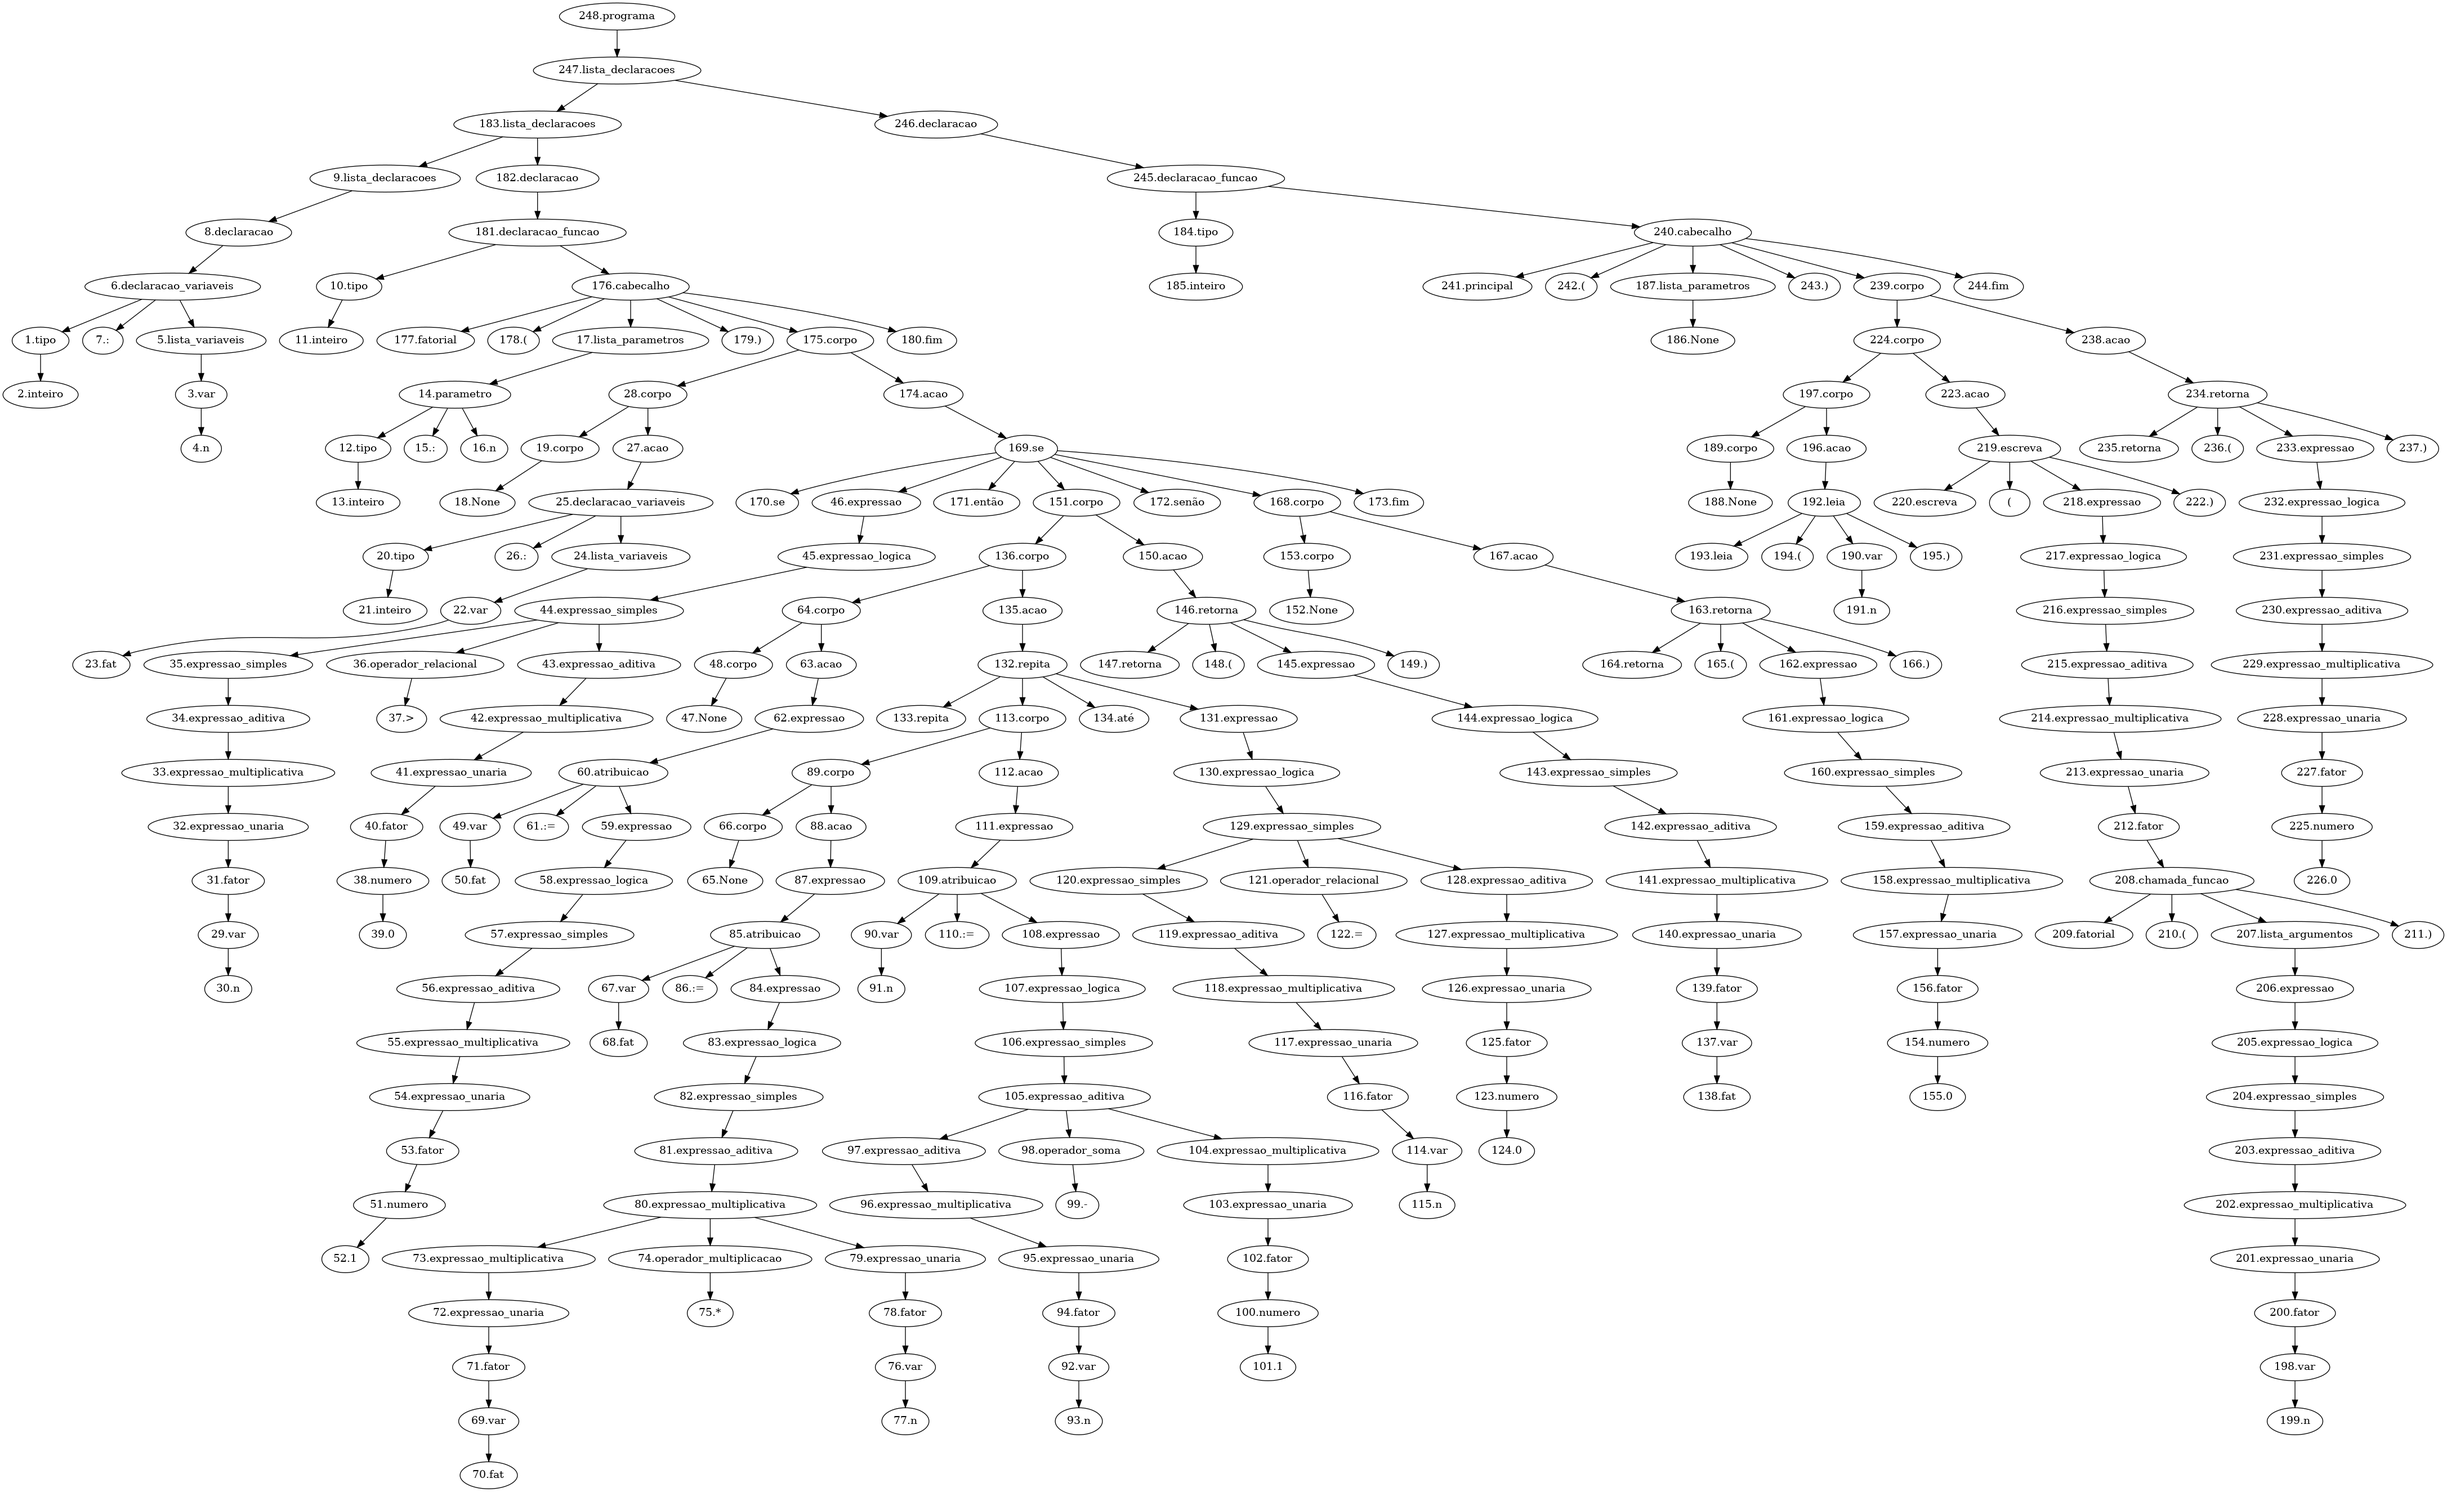
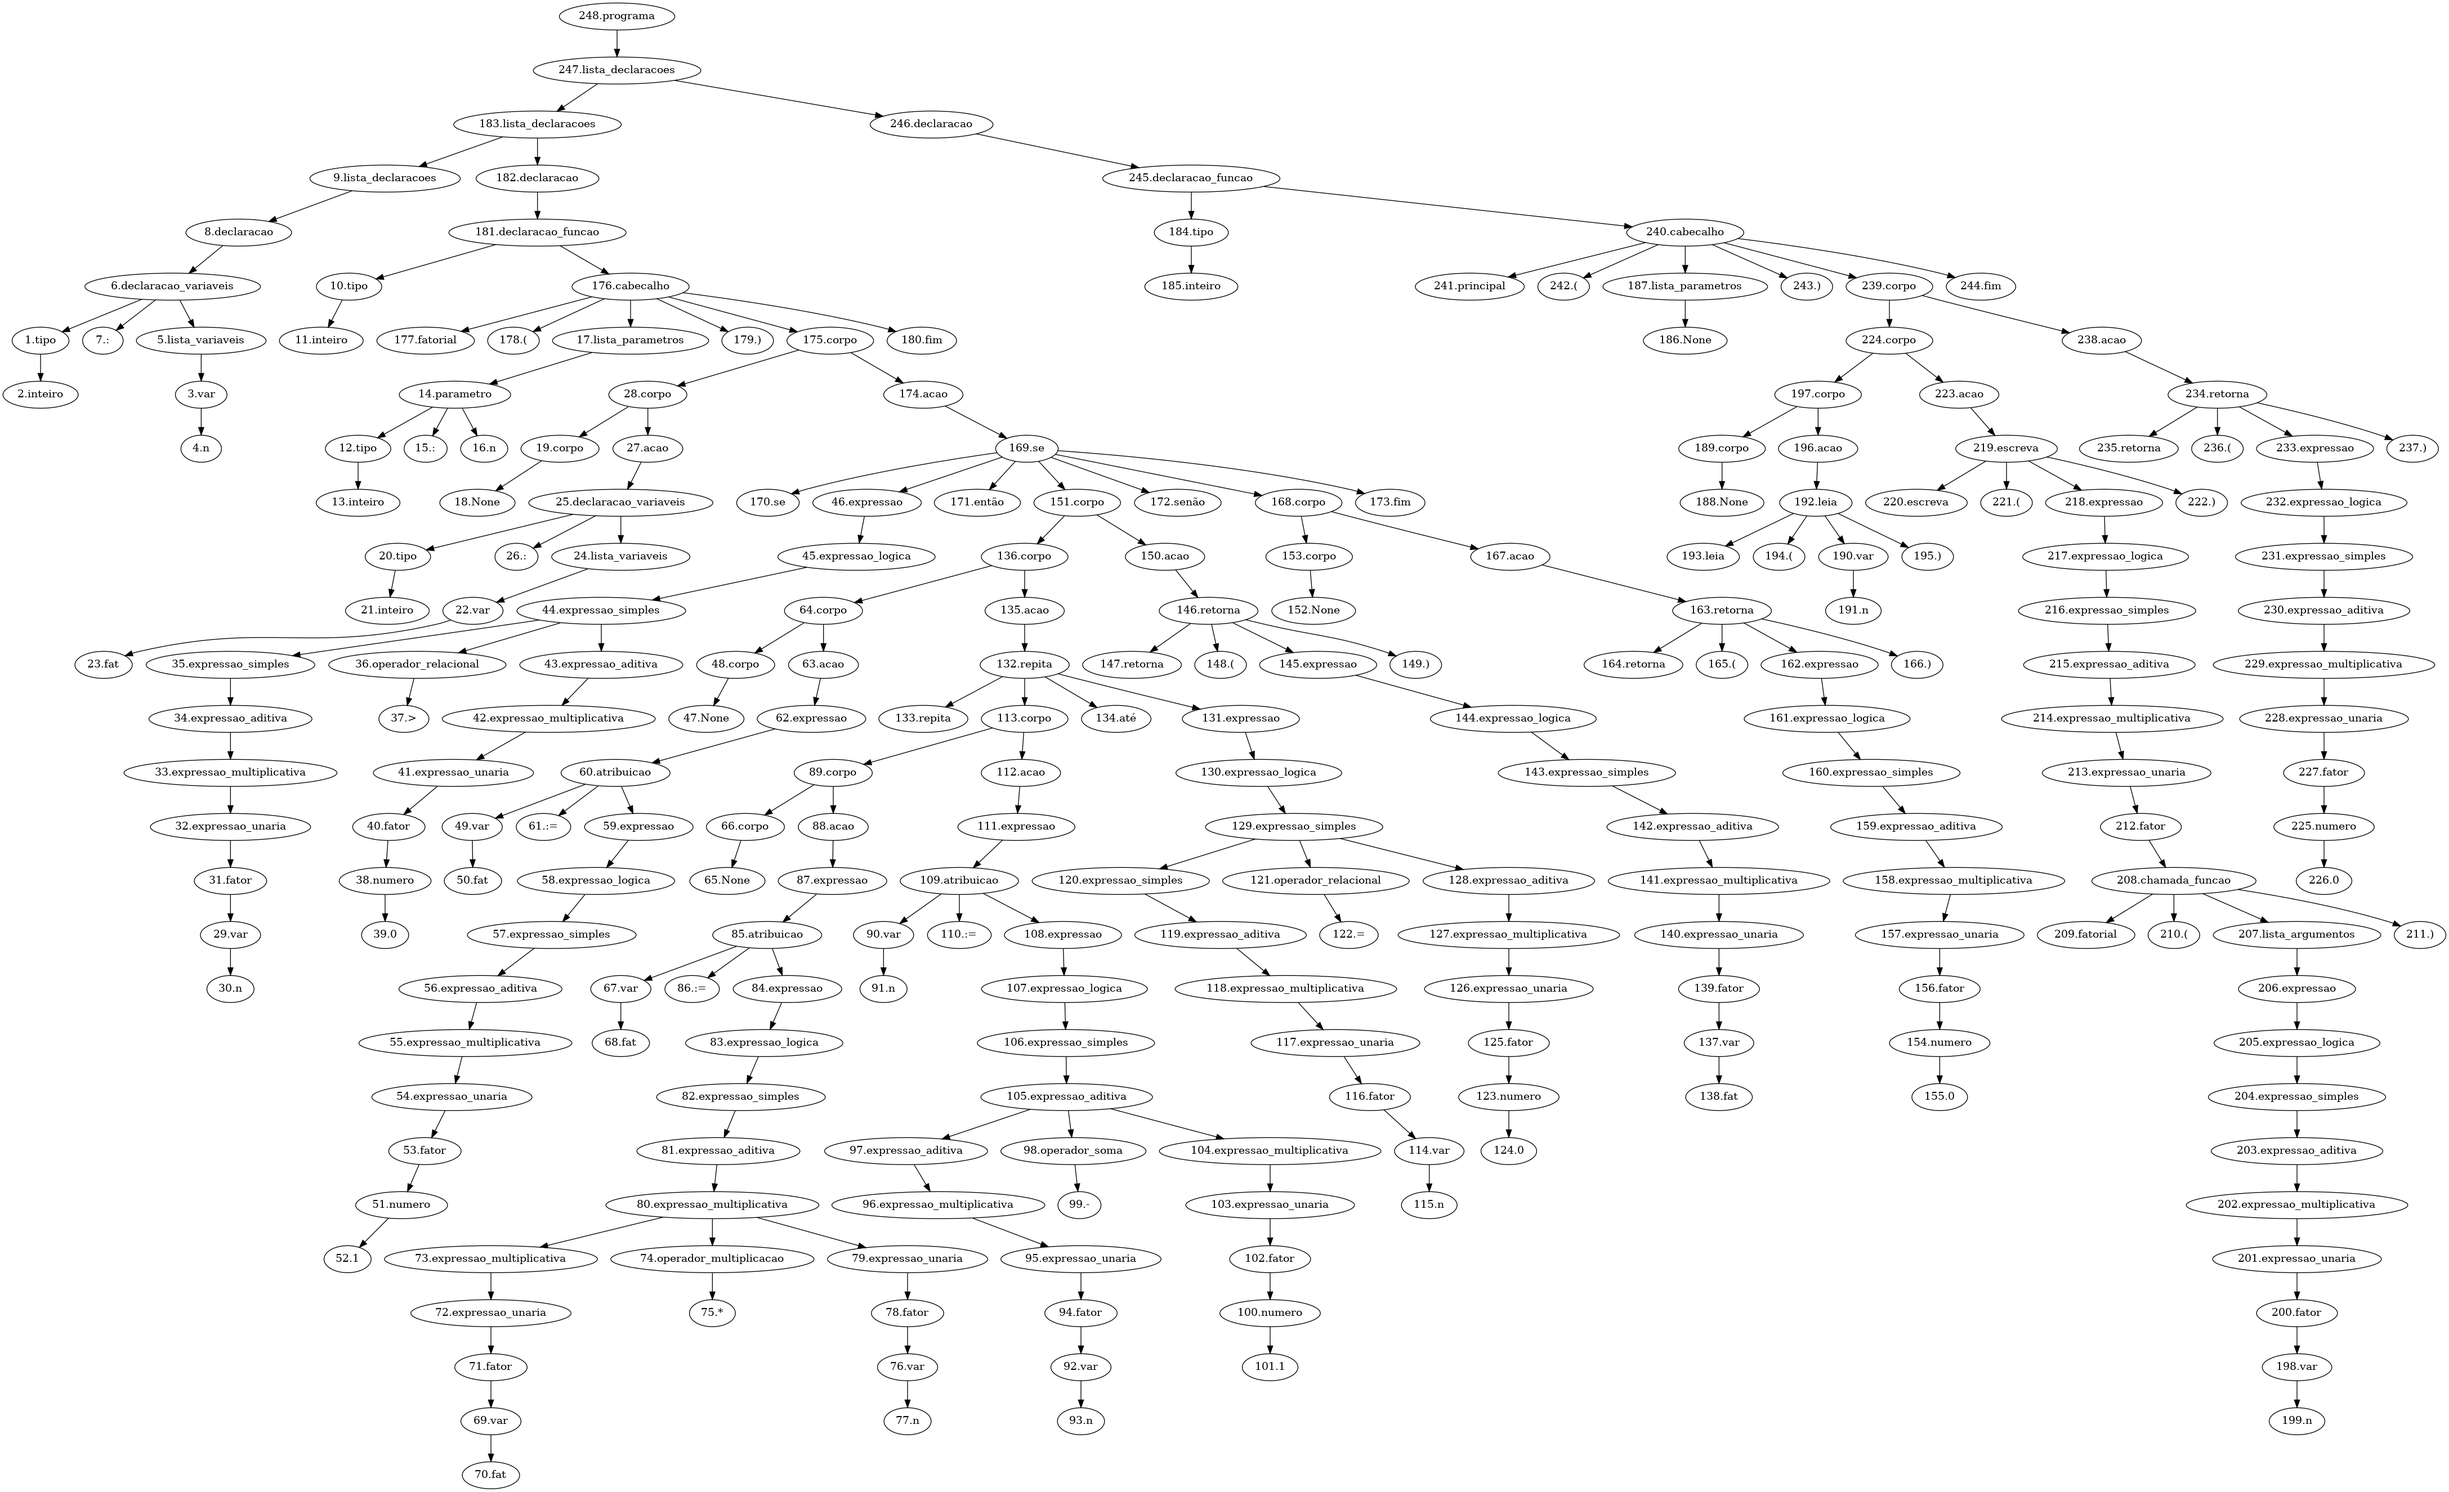
Show line and position number, improvement of error messages and scanner

diff --git a/src/parser.py b/src/parser.py
@@ -4,6 +4,7 @@ from anytree import Node, RenderTree
 from anytree.exporter import DotExporter
 
 from scanner import tokens
+from scanner import find_column
 
 precedence = (
     ('left', 'SOMA', 'SUBTRACAO'),
@@ -22,6 +23,7 @@ def p_programa(p):
     p[0] = Node(str(id_node)+'.'+'programa')
     p[1].parent = p[0]
 
+    # node.lineno
 def p_lista_declaracoes(p):
     '''lista_declaracoes : lista_declaracoes declaracao
                          | declaracao'''
@@ -53,7 +55,7 @@ def p_declaracao_variaveis(p):
     p[1].parent = p[0]
 
     id_node = id_node + 1
-    Node(str(id_node)+'.'+p[2], parent=p[0])
+    Node(str(id_node)+'.'+p[2], parent=p[0], lineno=p.lineno(2))
     p[3].parent = p[0]
 
 def p_inicializacao_variaveis(p):
@@ -75,7 +77,7 @@ def p_lista_variaveis(p):
 
     if len(p) == 4:
         id_node = id_node + 1
-        Node(str(id_node)+'.'+p[2], parent=p[0])
+        Node(str(id_node)+'.'+p[2], parent=p[0], lineno=p.lineno(2))
         p[3].parent = p[0]
 
 def p_var(p):
@@ -87,7 +89,7 @@ def p_var(p):
     p[0] = Node(str(id_node)+'.'+'var')
 
     id_node = id_node + 1
-    Node(str(id_node)+'.'+p[1], parent=p[0])
+    Node(str(id_node)+'.'+p[1], parent=p[0], lineno=p.lineno(1))
 
     if len(p) == 3:
         p[2].parent = p[0]
@@ -103,18 +105,18 @@ def p_indice(p):
     if len(p) == 5:
         p[1].parent = p[0]
         id_node = id_node + 1
-        Node(str(id_node)+'.'+p[2], parent=p[0])
+        Node(str(id_node)+'.'+p[2], parent=p[0], lineno=p.lineno(2))
 
         p[3].parent = p[0]
         id_node = id_node + 1
-        Node(str(id_node)+'.'+p[4], parent=p[0])
+        Node(str(id_node)+'.'+p[4], parent=p[0], lineno=p.lineno(4))
     elif len(p) == 4:
         id_node = id_node + 1
-        Node(str(id_node)+'.'+p[1], parent=p[0])
+        Node(str(id_node)+'.'+p[1], parent=p[0], lineno=p.lineno(1))
         p[2].parent = p[0]
 
         id_node = id_node + 1
-        Node(str(id_node)+'.'+p[3], parent=p[0])
+        Node(str(id_node)+'.'+p[3], parent=p[0], lineno=p.lineno(3))
 
 def p_tipo(p):
     '''tipo : INTEIRO
@@ -125,7 +127,7 @@ def p_tipo(p):
     p[0] = Node(str(id_node)+'.'+'tipo')
 
     id_node = id_node + 1
-    Node(str(id_node)+'.'+p[1], parent=p[0])
+    Node(str(id_node)+'.'+p[1], parent=p[0], lineno=p.lineno(1))
 
 def p_declaracao_funcao(p):
     '''declaracao_funcao : tipo cabecalho
@@ -147,18 +149,18 @@ def p_cabecalho(p):
     p[0] = Node(str(id_node)+'.'+'cabecalho')
 
     id_node = id_node + 1
-    Node(str(id_node)+'.'+p[1], parent=p[0])
+    Node(str(id_node)+'.'+p[1], parent=p[0], lineno=p.lineno(1))
 
     id_node = id_node + 1
-    Node(str(id_node)+'.'+p[2], parent=p[0])
+    Node(str(id_node)+'.'+p[2], parent=p[0], lineno=p.lineno(2))
     p[3].parent = p[0]
 
     id_node = id_node + 1
-    Node(str(id_node)+'.'+p[4], parent=p[0])
+    Node(str(id_node)+'.'+p[4], parent=p[0], lineno=p.lineno(4))
     p[5].parent = p[0]
 
     id_node = id_node + 1
-    Node(str(id_node)+'.'+p[6], parent=p[0])
+    Node(str(id_node)+'.'+p[6], parent=p[0], lineno=p.lineno(6))
 
 def p_lista_parametros(p):
     '''lista_parametros : lista_parametros VIRGULA parametro
@@ -172,7 +174,7 @@ def p_lista_parametros(p):
 
     if len(p) == 4:
         id_node = id_node + 1
-        Node(str(id_node)+'.'+p[2], parent=p[0])
+        Node(str(id_node)+'.'+p[2], parent=p[0], lineno=p.lineno(2))
         p[3].parent = p[0]
 
 def p_parametro(p):
@@ -185,10 +187,10 @@ def p_parametro(p):
     p[1].parent = p[0]
 
     id_node = id_node + 1
-    Node(str(id_node)+'.'+p[2], parent=p[0])
+    Node(str(id_node)+'.'+p[2], parent=p[0], lineno=p.lineno(2))
 
     id_node = id_node + 1
-    Node(str(id_node)+'.'+p[3], parent=p[0])
+    Node(str(id_node)+'.'+p[3], parent=p[0], lineno=p.lineno(3))
 
 def p_corpo(p):
     '''corpo : corpo acao
@@ -226,20 +228,20 @@ def p_se(p):
     p[0] = Node(str(id_node)+'.'+'se')
 
     id_node = id_node + 1
-    Node(str(id_node)+'.'+p[1], parent=p[0])
+    Node(str(id_node)+'.'+p[1], parent=p[0], lineno=p.lineno(1))
     p[2].parent = p[0]
 
     id_node = id_node + 1
-    Node(str(id_node)+'.'+p[3], parent=p[0])
+    Node(str(id_node)+'.'+p[3], parent=p[0], lineno=p.lineno(3))
     p[4].parent = p[0]
 
     id_node = id_node + 1
-    Node(str(id_node)+'.'+p[5], parent=p[0])
+    Node(str(id_node)+'.'+p[5], parent=p[0], lineno=p.lineno(5))
 
     if len(p) == 8:   
         p[6].parent = p[0]
         id_node = id_node + 1
-        Node(str(id_node)+'.'+p[7], parent=p[0])
+        Node(str(id_node)+'.'+p[7], parent=p[0], lineno=p.lineno(7))
 
 def p_repita(p):
     '''repita : REPITA corpo ATE expressao'''
@@ -249,11 +251,11 @@ def p_repita(p):
     p[0] = Node(str(id_node)+'.'+'repita')
 
     id_node = id_node + 1
-    Node(str(id_node)+'.'+p[1], parent=p[0])
+    Node(str(id_node)+'.'+p[1], parent=p[0], lineno=p.lineno(1))
     p[2].parent = p[0]
 
     id_node = id_node + 1
-    Node(str(id_node)+'.'+p[3], parent=p[0])
+    Node(str(id_node)+'.'+p[3], parent=p[0], lineno=p.lineno(3))
     p[4].parent = p[0]
 
 def p_atribuicao(p):
@@ -265,7 +267,7 @@ def p_atribuicao(p):
     p[1].parent = p[0]
 
     id_node = id_node + 1
-    Node(str(id_node)+'.'+p[2], parent=p[0])
+    Node(str(id_node)+'.'+p[2], parent=p[0], lineno=p.lineno(2))
     p[3].parent = p[0]
 
 def p_leia(p):
@@ -276,14 +278,14 @@ def p_leia(p):
     p[0] = Node(str(id_node)+'.'+'leia')
 
     id_node = id_node + 1
-    Node(str(id_node)+'.'+p[1], parent=p[0])
+    Node(str(id_node)+'.'+p[1], parent=p[0], lineno=p.lineno(1))
 
     id_node = id_node + 1
-    Node(str(id_node)+'.'+p[2], parent=p[0])
+    Node(str(id_node)+'.'+p[2], parent=p[0], lineno=p.lineno(2))
     p[3].parent = p[0]
 
     id_node = id_node + 1
-    Node(str(id_node)+'.'+p[4], parent=p[0])
+    Node(str(id_node)+'.'+p[4], parent=p[0], lineno=p.lineno(4))
 
 def p_escreva(p):
     '''escreva : ESCREVA ABRE_PAR expressao FECHA_PAR'''
@@ -293,14 +295,14 @@ def p_escreva(p):
     p[0] = Node(str(id_node)+'.'+'escreva')
 
     id_node = id_node + 1
-    Node(str(id_node)+'.'+p[1], parent=p[0])
+    Node(str(id_node)+'.'+p[1], parent=p[0], lineno=p.lineno(1))
 
     id_node = id_node + 1
-    Node(p[2], parent=p[0])
+    Node(str(id_node)+'.'+p[2], parent=p[0], lineno=p.lineno(2))
     p[3].parent = p[0]
 
     id_node = id_node + 1
-    Node(str(id_node)+'.'+p[4], parent=p[0])
+    Node(str(id_node)+'.'+p[4], parent=p[0], lineno=p.lineno(4))
 
 def p_retorna(p):
     '''retorna : RETORNA ABRE_PAR expressao FECHA_PAR'''
@@ -310,14 +312,14 @@ def p_retorna(p):
     p[0] = Node(str(id_node)+'.'+'retorna')
 
     id_node = id_node + 1
-    Node(str(id_node)+'.'+p[1], parent=p[0])
+    Node(str(id_node)+'.'+p[1], parent=p[0], lineno=p.lineno(1))
 
     id_node = id_node + 1
-    Node(str(id_node)+'.'+p[2], parent=p[0])
+    Node(str(id_node)+'.'+p[2], parent=p[0], lineno=p.lineno(2))
     p[3].parent = p[0]
 
     id_node = id_node + 1
-    Node(str(id_node)+'.'+p[4], parent=p[0])
+    Node(str(id_node)+'.'+p[4], parent=p[0], lineno=p.lineno(4))
 
 def p_expressao(p):
     '''expressao : expressao_logica
@@ -406,7 +408,7 @@ def p_operador_relacional(p):
     p[0] = Node(str(id_node)+'.'+'operador_relacional')
 
     id_node = id_node + 1
-    Node(str(id_node)+'.'+p[1], parent=p[0])
+    Node(str(id_node)+'.'+p[1], parent=p[0], lineno=p.lineno(1))
 
 def p_operador_soma(p):
     '''operador_soma : SOMA
@@ -417,7 +419,7 @@ def p_operador_soma(p):
     p[0] = Node(str(id_node)+'.'+'operador_soma')
 
     id_node = id_node + 1
-    Node(str(id_node)+'.'+p[1], parent=p[0])
+    Node(str(id_node)+'.'+p[1], parent=p[0], lineno=p.lineno(1))
 
 def p_operador_negacao(p):
     '''operador_negacao : NEGACAO'''
@@ -427,7 +429,7 @@ def p_operador_negacao(p):
     p[0] = Node(str(id_node)+'.'+'operador_negacao')
 
     id_node = id_node + 1
-    Node(str(id_node)+'.'+p[1], parent=p[0])
+    Node(str(id_node)+'.'+p[1], parent=p[0], lineno=p.lineno(1))
 
 def p_operador_logico(p):
     '''operador_logico : E_LOGICO
@@ -438,7 +440,7 @@ def p_operador_logico(p):
     p[0] = Node(str(id_node)+'.'+'operador_logico')
 
     id_node = id_node + 1
-    Node(str(id_node)+'.'+p[1], parent=p[0])
+    Node(str(id_node)+'.'+p[1], parent=p[0], lineno=p.lineno(1))
 
 def p_operador_multiplicacao(p):
     '''operador_multiplicacao : MULTIPLICACAO
@@ -449,7 +451,7 @@ def p_operador_multiplicacao(p):
     p[0] = Node(str(id_node)+'.'+'operador_multiplicacao')
 
     id_node = id_node + 1
-    Node(str(id_node)+'.'+p[1], parent=p[0])
+    Node(str(id_node)+'.'+p[1], parent=p[0], lineno=p.lineno(1))
 
 def p_fator(p):
     '''fator : ABRE_PAR expressao FECHA_PAR
@@ -463,11 +465,11 @@ def p_fator(p):
 
     if len(p) == 4:
         id_node = id_node + 1
-        Node(str(id_node)+'.'+p[1], parent=p[0])
+        Node(str(id_node)+'.'+p[1], parent=p[0], lineno=p.lineno(1))
         p[2].parent = p[0]
 
         id_node = id_node + 1
-        Node(str(id_node)+'.'+p[3], parent=p[0])
+        Node(str(id_node)+'.'+p[3], parent=p[0], lineno=p.lineno(3))
     elif len(p) == 2:
         p[1].parent = p[0]
 
@@ -480,7 +482,7 @@ def p_numero(p):
     p[0] = Node(str(id_node)+'.'+'numero')
 
     id_node = id_node + 1
-    Node(str(id_node)+'.'+str(p[1]), parent=p[0])
+    Node(str(id_node)+'.'+str(p[1]), parent=p[0], lineno=p.lineno(1))
 
 def p_chamada_funcao(p):
     '''chamada_funcao : ID ABRE_PAR lista_argumentos FECHA_PAR'''
@@ -490,14 +492,14 @@ def p_chamada_funcao(p):
     p[0] = Node(str(id_node)+'.'+'chamada_funcao')
 
     id_node = id_node + 1
-    Node(str(id_node)+'.'+p[1], parent=p[0])
+    Node(str(id_node)+'.'+p[1], parent=p[0], lineno=p.lineno(1))
 
     id_node = id_node + 1
-    Node(str(id_node)+'.'+p[2], parent=p[0])
+    Node(str(id_node)+'.'+p[2], parent=p[0], lineno=p.lineno(2))
     p[3].parent = p[0]
 
     id_node = id_node + 1
-    Node(str(id_node)+'.'+p[4], parent=p[0])
+    Node(str(id_node)+'.'+p[4], parent=p[0], lineno=p.lineno(4))
 
 def p_lista_argumentos(p):
     '''lista_argumentos : lista_argumentos VIRGULA expressao
@@ -511,7 +513,7 @@ def p_lista_argumentos(p):
 
     if len(p) == 4:
         id_node = id_node + 1
-        Node(str(id_node)+'.'+p[2], parent=p[0])
+        Node(str(id_node)+'.'+p[2], parent=p[0], lineno=p.lineno(2))
         p[3].parent = p[0]
 
 def p_vazio(p):
@@ -523,10 +525,12 @@ def p_vazio(p):
 #************************************************
 # Fim das regras
 
+
 #Função que exibe erros
 def p_error(p):
     if p:
-        print("Erro sintático em '%s'" % p.value)
+        # print("Erro sintático na linha %d - Posição %d: '%s'" % (p.lineno, p.lexpos, p.value))
+        print("Erro sintático na linha %d: '%s' após sentença estranha" % (p.lineno-20, p.value))
         exit(1)
     else:
         yacc.restart()

diff --git a/src/scanner.py b/src/scanner.py
@@ -25,12 +25,13 @@ t_FECHA_COL = r'\]'
 t_DOIS_PONTOS = r'\:'
 t_NEGACAO = r'\!'
 
-t_ignore = ' \t\n\r'
+t_ignore = ' \t\r'
 
 #Lista de funções que definem expressões regulares:
 #************************************************
 def t_COMENTARIO(t):
     r'(\{(.|\n)*?\})|(\{(.|\n)*?)$'
+    # r'{.*}'
     pass
 
 def t_NUM_FLUTUANTE(t):
@@ -82,6 +83,10 @@ def t_OU_LOGICO(t):
 def t_newline(t):
     r'\n+'
     t.lexer.lineno += len(t.value)
+
+def find_column(input, token):
+    line_start = input.rfind('\n', 0, token.lexpos) + 1
+    return (token.lexpos - line_start) + 1
 #************************************************
 #Fim das expressões
 
@@ -99,24 +104,17 @@ def run_scanner(file):
         print("Arquivo inválido!")
     else:
         fileName = file
-        aux = fileName.split(".")
-        fileOut = aux[0] + '_out.txt'
-
-        f = open(fileName, 'r') 
-        fileWriteOut = open(fileOut, 'w')
-
+        f = open(fileName, 'r')
         line = f.readline()
-        
-        while line: 
-            lexer.input(line) 
+        while line:
+            lexer.input(line)
             while True:
-                tok = lexer.token() 
-                if not tok: 
+                tok = lexer.token()
+                if not tok:
                     break
-                fileWriteOut.write("<" +tok.type+ " , " +str(tok.value)+ ">\n") 
+                tok.lexpos = find_column(line, tok)
+                print("Linha "+str(tok.lineno)+" - Pos " +str(tok.lexpos)+ ": <" +tok.type+ " , " +str(tok.value)+ ">\n")
 
             line = f.readline()
-            
-        print("Arquivo Escaneado com Sucesso!")
-        fileWriteOut.close()
+
         f.close()
